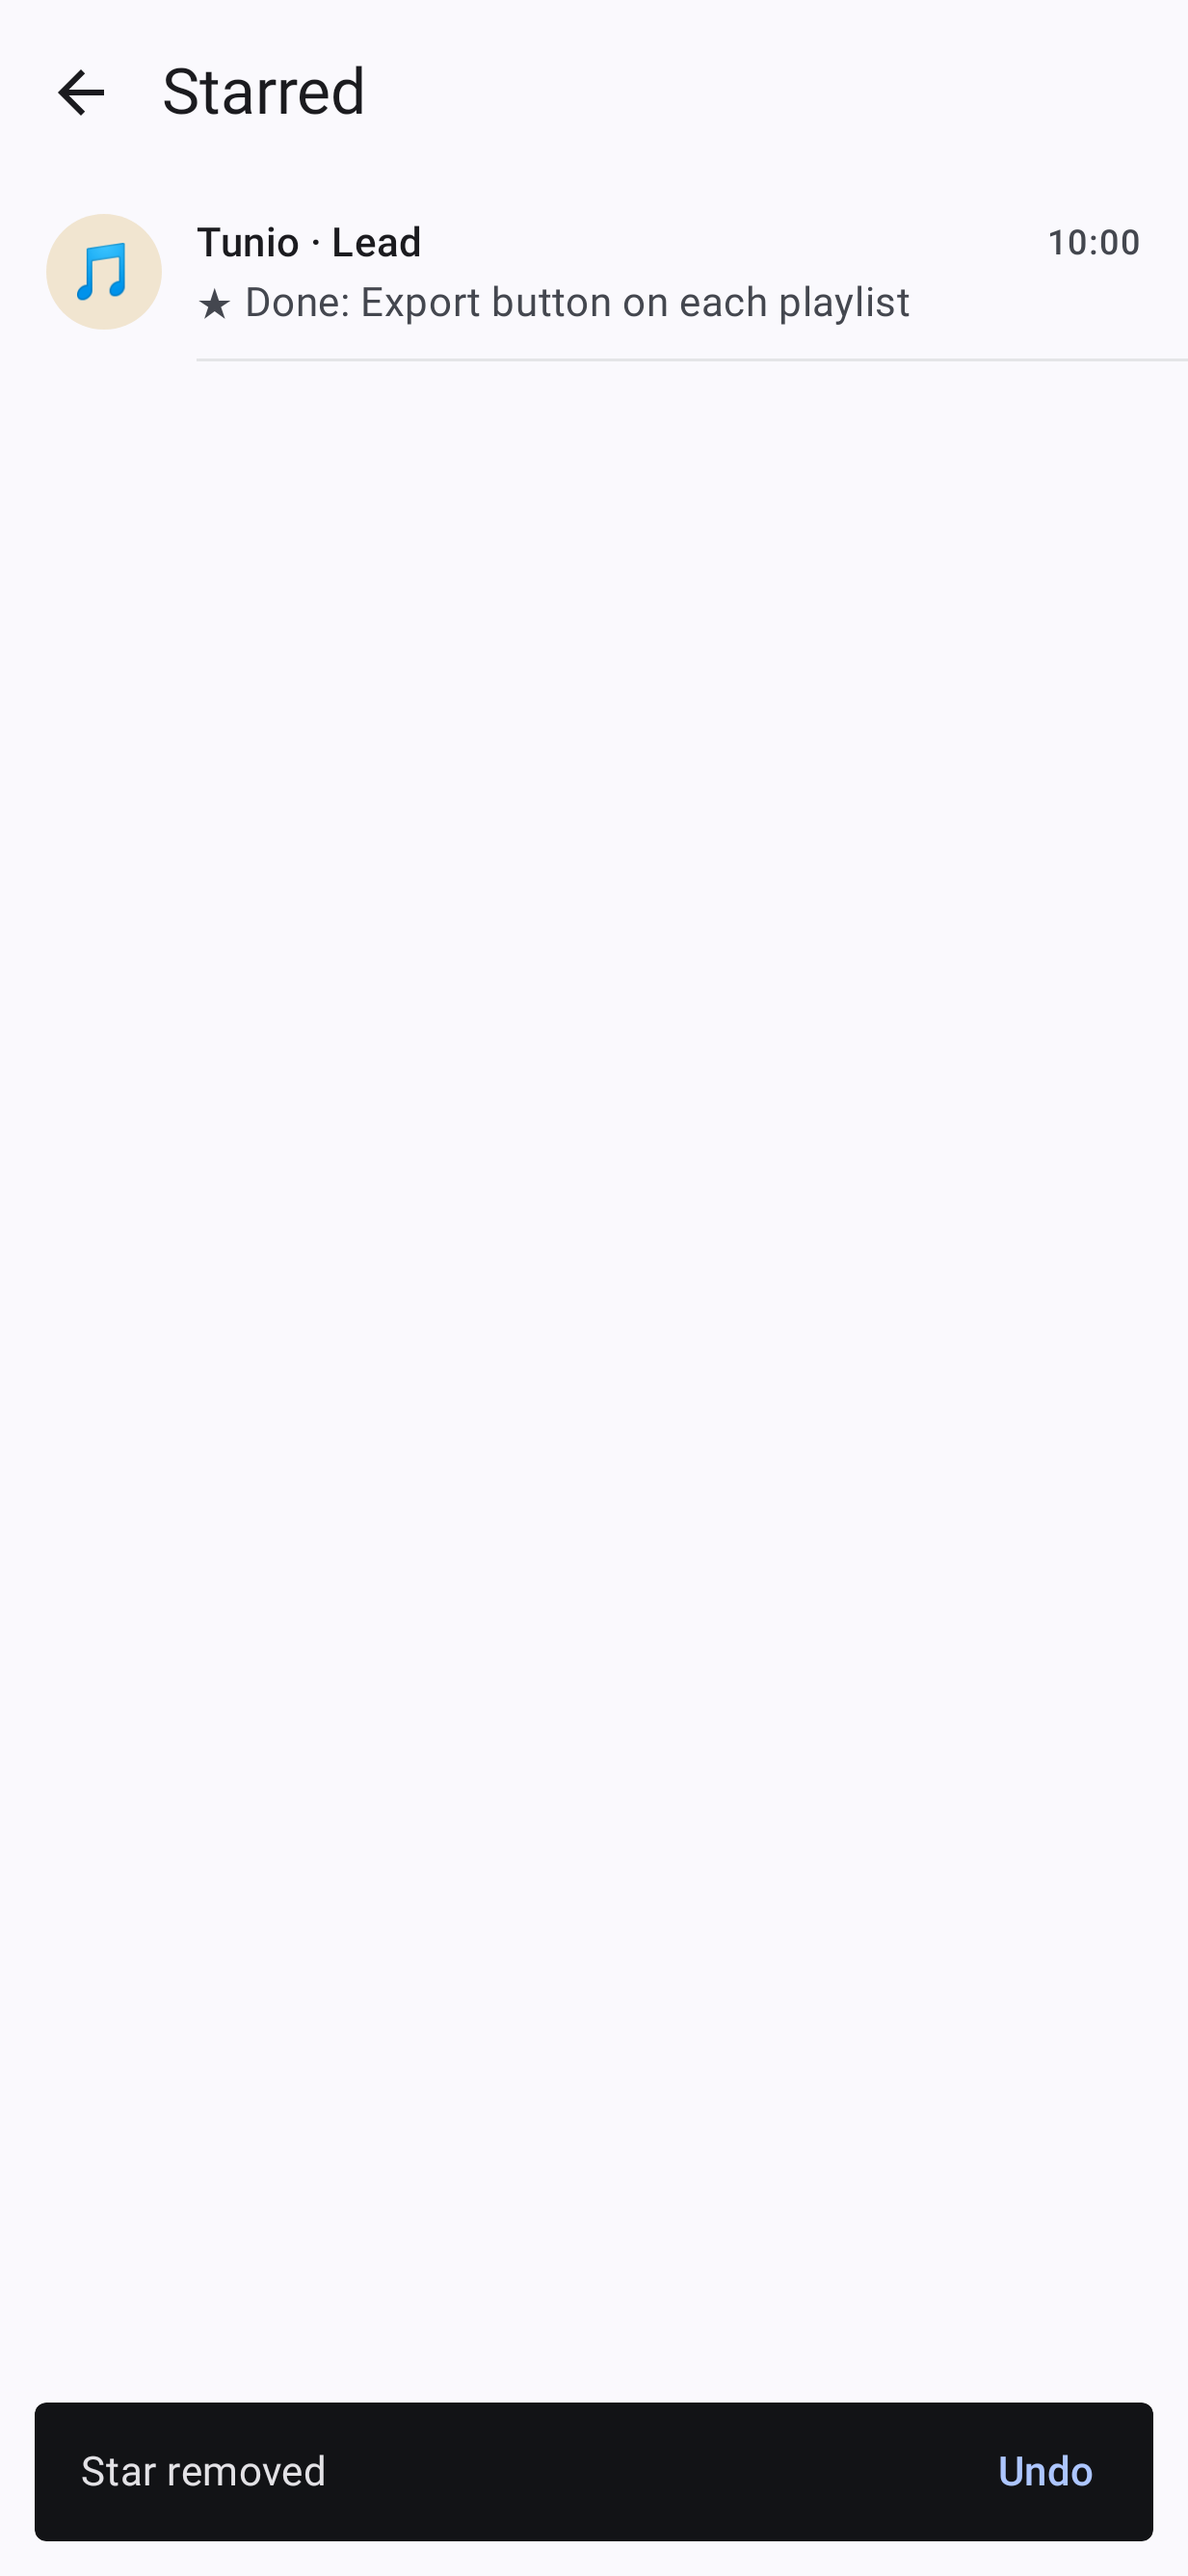
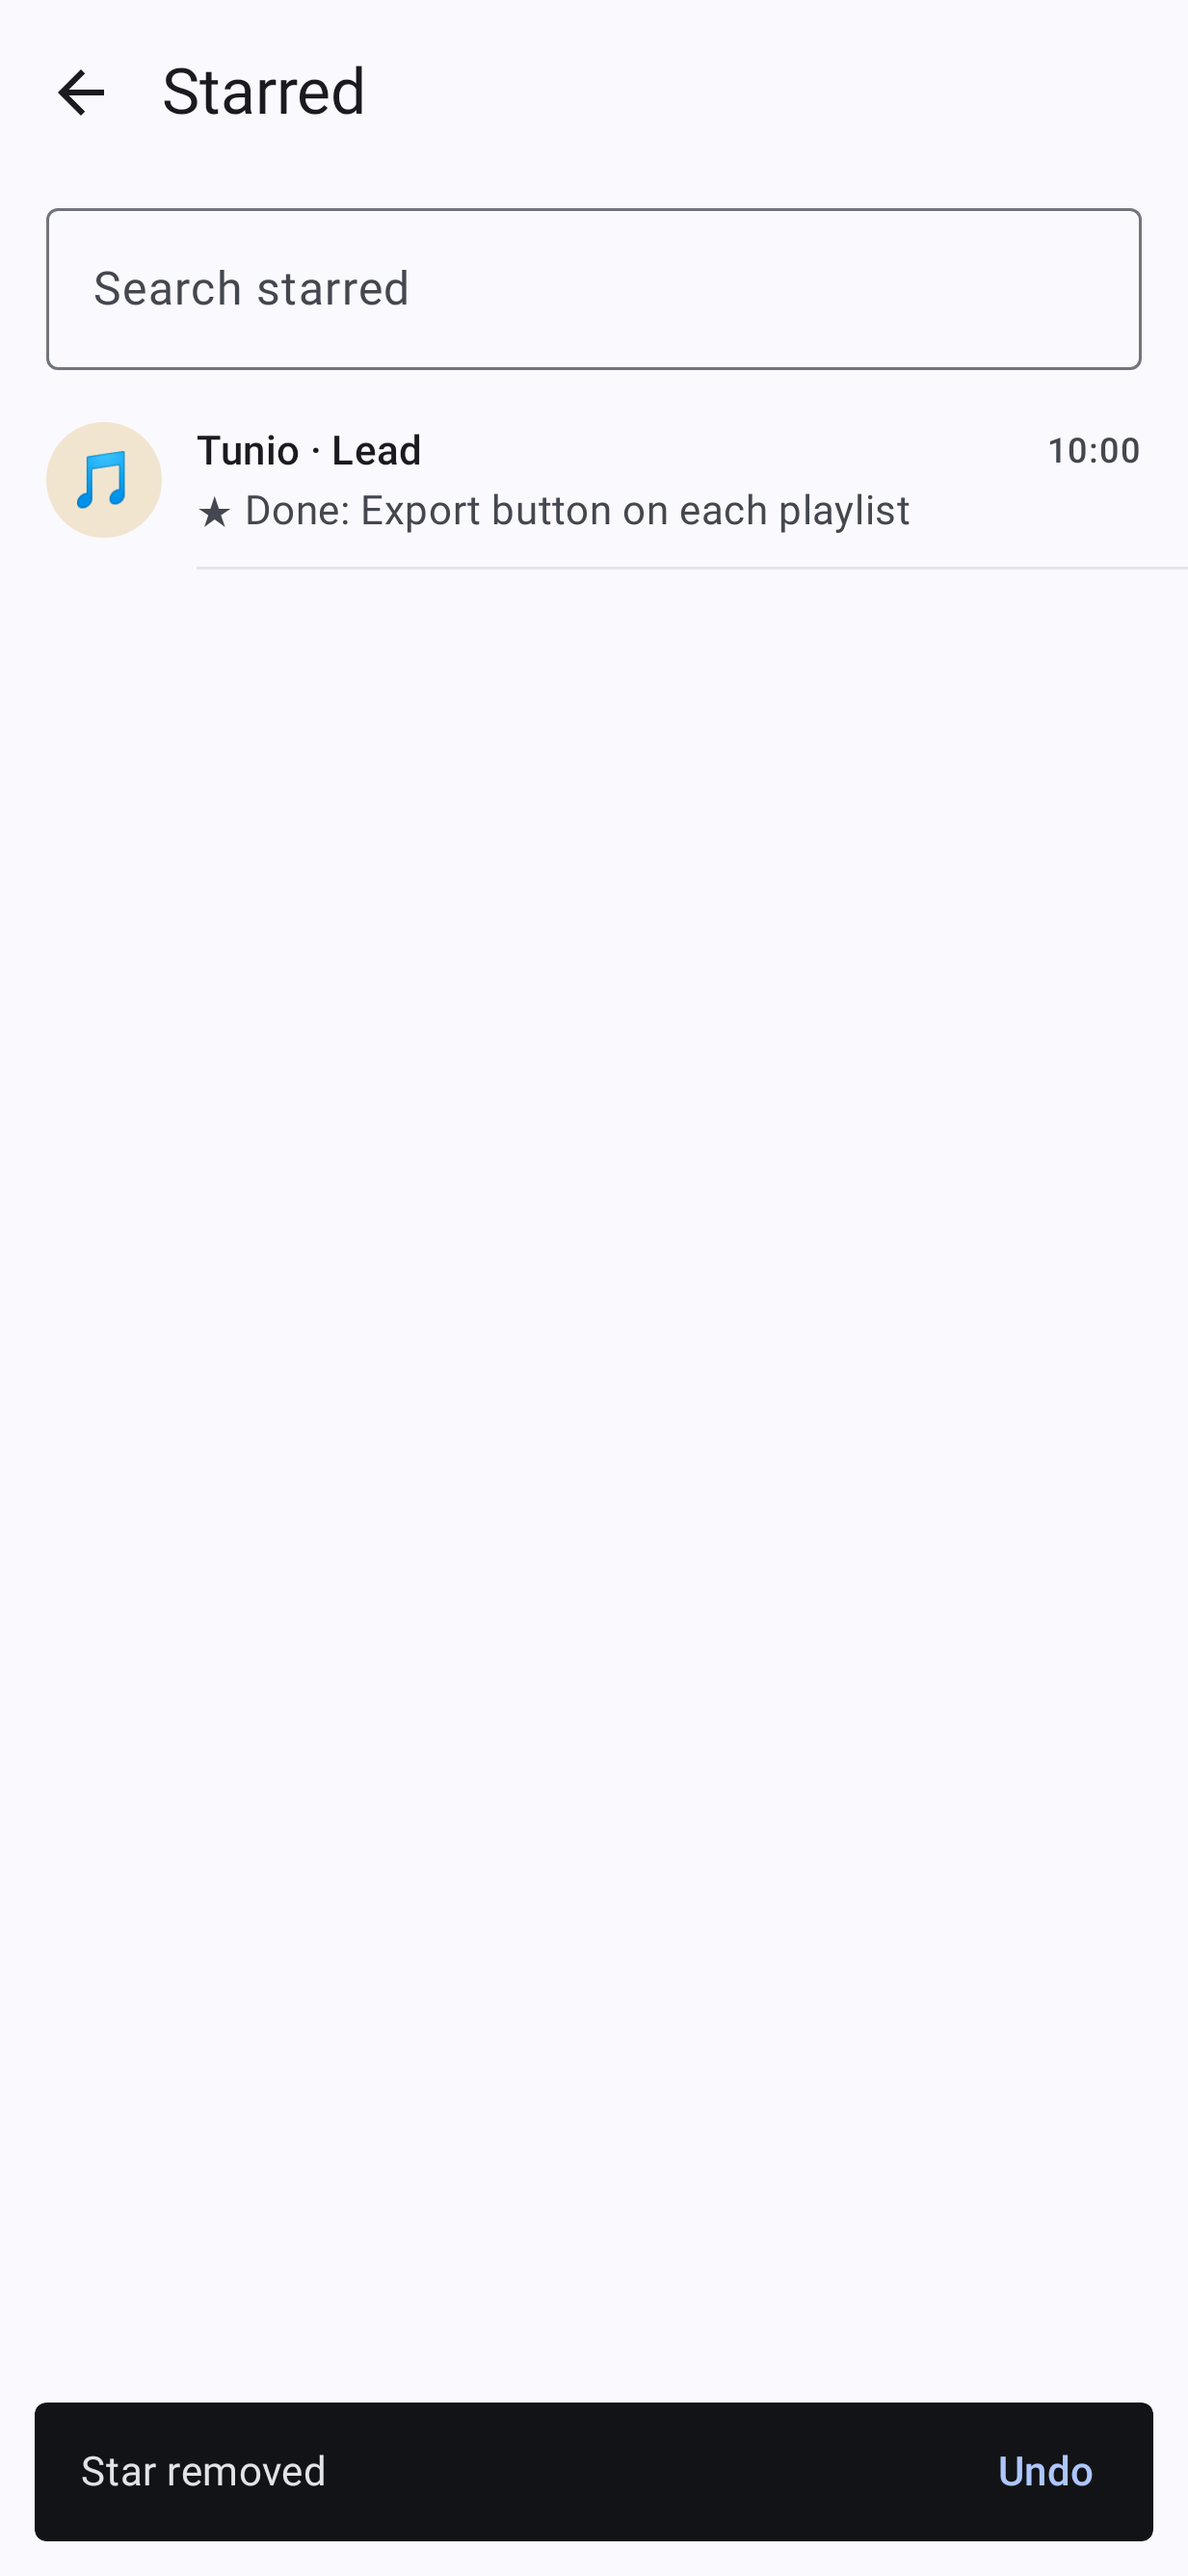
Starred: search box (AII-164)

diff --git a/app/src/main/java/com/smizflark/aigile/messenger/ui/StarredScreen.kt b/app/src/main/java/com/smizflark/aigile/messenger/ui/StarredScreen.kt
@@ -49,7 +49,9 @@ import com.smizflark.aigile.messenger.data.Stars
 fun StarredScreen(repo: Repo, onOpen: (ChatRef, String) -> Unit, onBack: () -> Unit) {
     val chats = remember { repo.store.cachedChats() ?: emptyList() }
     var all by remember { mutableStateOf(repo.store.stars()) }
-    val stars = remember(all) { Stars.everywhere(all, chats) }
+    var query by remember { mutableStateOf("") }   // AII-164
+    val every = remember(all) { Stars.everywhere(all, chats) }
+    val stars = remember(every, query) { Stars.matching(every, query) }
     val snack = remember { androidx.compose.material3.SnackbarHostState() }
     val scope = androidx.compose.runtime.rememberCoroutineScope()
     val context = androidx.compose.ui.platform.LocalContext.current
@@ -65,7 +67,12 @@ fun StarredScreen(repo: Repo, onOpen: (ChatRef, String) -> Unit, onBack: () -> U
         },
     ) { pad ->
         Column(Modifier.fillMaxSize().padding(pad)) {
-            if (stars.isEmpty()) EmptyState(stringResource(R.string.no_starred))
+            // AII-164: a search box once there is something to search.
+            if (every.isNotEmpty()) androidx.compose.material3.OutlinedTextField(query, { query = it },
+                placeholder = { Text(stringResource(R.string.search_starred)) }, singleLine = true,
+                modifier = Modifier.fillMaxWidth().padding(horizontal = 16.dp, vertical = 8.dp).testTag("starred-search"))
+            if (every.isEmpty()) EmptyState(stringResource(R.string.no_starred))
+            else if (stars.isEmpty()) EmptyState(stringResource(R.string.search_no_results, query.trim()))
             LazyColumn(Modifier.fillMaxSize()) {
                 items(stars, key = { (ref, s) -> "${ref.key}|${s.key}" }) { (ref, s) ->
                     StarRow(ref, s, repo, onClick = { onOpen(ref, s.key) },

diff --git a/app/src/test/java/com/smizflark/aigile/messenger/screens/ScreenshotTest.kt b/app/src/test/java/com/smizflark/aigile/messenger/screens/ScreenshotTest.kt
@@ -17,6 +17,7 @@ import androidx.compose.ui.test.onAllNodesWithTag
 import androidx.compose.ui.test.onAllNodesWithText
 import androidx.compose.ui.test.performClick
 import androidx.compose.ui.test.performTextInput
+import androidx.compose.ui.test.performTextReplacement
 import androidx.compose.ui.test.onRoot
 import androidx.compose.ui.test.filterToOne
 import androidx.compose.ui.test.onChildren
@@ -543,6 +544,15 @@ class ScreenshotTest {
         rule.onNodeWithText("Undo").performClick()
         rule.onAllNodesWithTag("starred-row").assertCountEquals(2)
         org.junit.Assert.assertEquals(2, repo.store.stars().size)
+        // AII-164: the search box keeps only the stars with those words in them.
+        val q = Regex("[A-Za-z]{5,}").find(repo.store.stars().first().text)!!.value
+        rule.onNodeWithTag("starred-search").performTextInput(q)
+        rule.onAllNodesWithTag("starred-row").assertCountEquals(repo.store.stars().count { it.text.contains(q, ignoreCase = true) })
+        rule.waitForIdle()
+        rule.onRoot().captureRoboImage("../docs/shots/starred_search_light.png")
+        rule.onNodeWithTag("starred-search").performTextReplacement("zzzq")
+        rule.onAllNodesWithTag("starred-row").assertCountEquals(0)
+        rule.onNodeWithText("No results for “zzzq”").assertExists()
     }
     @Test fun newLight() = shot("new_message", false) { NewMessageScreen(repo, onBack = {}, onSent = {}) }
     @Test fun newDark() = shot("new_message", true) { NewMessageScreen(repo, onBack = {}, onSent = {}) }

diff --git a/app/src/main/java/com/smizflark/aigile/messenger/data/Stars.kt b/app/src/main/java/com/smizflark/aigile/messenger/data/Stars.kt
@@ -40,6 +40,12 @@ object Stars {
     fun outOfStep(all: List<Star>, chat: String, board: List<String>?) =
         board != null && board.toSet() != all.filter { it.chat == chat }.map { boardKey(it) }.toSet()
 
+    /** The starred messages whose words or sender have [query] in them, any case (AII-164); a blank query keeps them all. */
+    fun <T> matching(list: List<Pair<T, Star>>, query: String): List<Pair<T, Star>> {
+        val q = query.trim()
+        return if (q.isEmpty()) list else list.filter { (_, s) -> s.text.contains(q, ignoreCase = true) || s.author.contains(q, ignoreCase = true) }
+    }
+
     /** Every chat's stars, newest message first (AII-140); stars of chats this phone no longer has are left out, as they can't open. */
     fun everywhere(all: List<Star>, chats: List<ChatRef>): List<Pair<ChatRef, Star>> {
         val byKey = chats.associateBy { it.key }

diff --git a/app/src/test/java/com/smizflark/aigile/messenger/StarSyncTest.kt b/app/src/test/java/com/smizflark/aigile/messenger/StarSyncTest.kt
@@ -42,4 +42,13 @@ class StarSyncTest {
         val kept = Star("lead:a", "_lead:$t1:7", "Lead", "saved text", t1)
         assertEquals(listOf(kept), Stars.fromBoard(listOf(kept), "lead:a", listOf("_lead|$t1"), emptyList()))
     }
+
+    @Test fun searchKeepsMatchingWordsOrSender() {
+        val a = Star("lead:a", "k1", "Lead", "The APK is ready", t1)
+        val b = Star("lead:a", "k2", "Rich", "lunch?", t2)
+        val all = listOf("x" to a, "x" to b)
+        assertEquals(listOf("x" to a), Stars.matching(all, " apk "))
+        assertEquals(listOf("x" to b), Stars.matching(all, "rich"))
+        assertEquals(all, Stars.matching(all, "  "))
+    }
 }
